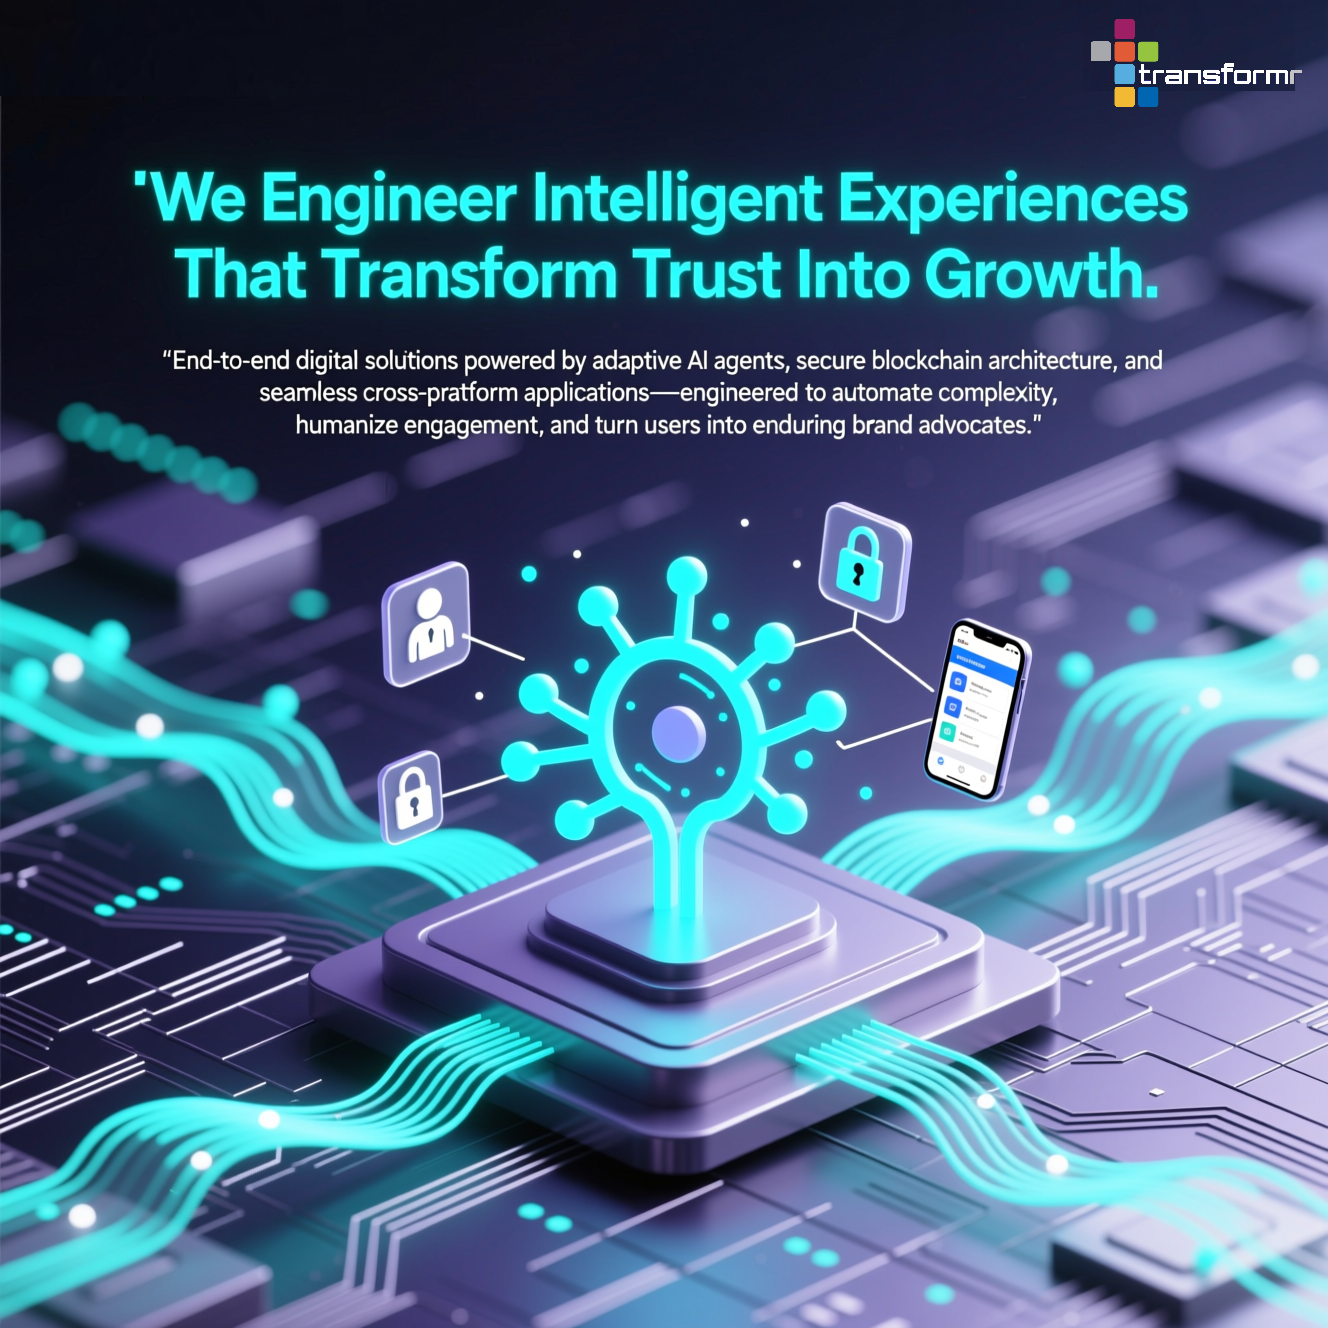
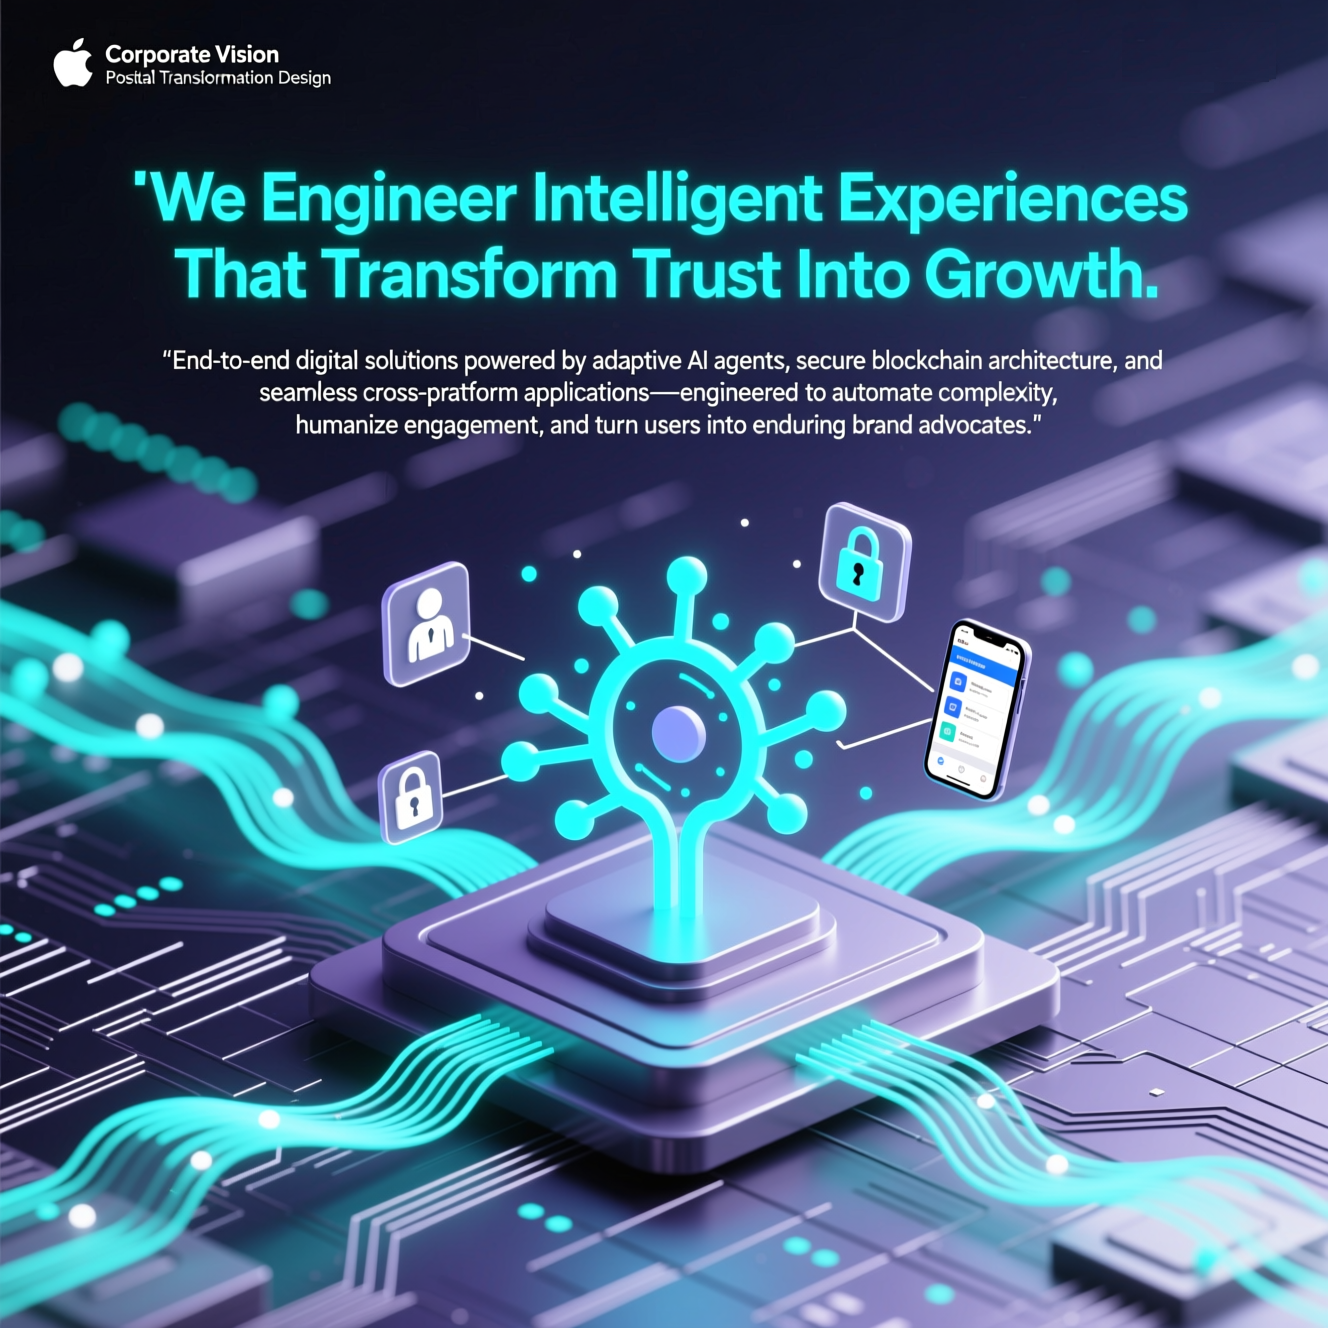
delete transformr area

Changed region(s): [[0.8027, 0.0, 0.988, 0.0926], [0.0309, 0.0309, 0.247, 0.0617]]

diff --git a/src/components/Contact.jsx b/src/components/Contact.jsx
@@ -1,23 +1,7 @@
 import { motion } from "motion/react";
-import assets from "../assets/assets";
 import Title from "./Title";
 
 const Contact = () => {
-    const contacts = [
-        {
-            name: 'Glenn Evans',
-            email: 'glenn.evans@transformr.com.au'
-        },
-        {
-            name: 'Michael Verso',
-            email: 'michael.verso@transformr.com.au'
-        },
-        {
-            name: 'Thai Bui Cong',
-            email: 'thai.buicong@transformr.com.au'
-        }
-    ];
-
     return (
         <motion.div
             initial="hidden"
@@ -25,37 +9,6 @@ const Contact = () => {
             transition={{ staggerChildren: 0.2 }}
             viewport={{ once: false, margin: "-100px" }}
             id="contact-us" className="flex flex-col items-center gap-7 px-4 sm:px-12 lg:px-24 xl:px-40 pt-30 text-gray-700 dark:text-white">
-            <Title title='Reach Out to Us' desc="Let's build something extraordinary together! From strategy to execution, we craft digital experiences that grow your business." />
-
-            <motion.div
-                initial={{ opacity: 0, y: 30 }}
-                whileInView={{ opacity: 1, y: 0 }}
-                transition={{ duration: 0.5, delay: 0.4 }}
-                viewport={{ once: false, margin: "-50px" }}
-                className="grid sm:grid-cols-2 lg:grid-cols-3 gap-6 max-w-6xl w-full">
-                {contacts.map((contact, index) => (
-                    <motion.div
-                        key={index}
-                        initial={{ opacity: 0, y: 20 }}
-                        whileInView={{ opacity: 1, y: 0 }}
-                        transition={{ duration: 0.5, delay: 0.2 * index }}
-                        viewport={{ once: false, margin: "-50px" }}
-                        className="flex flex-col items-center p-8 rounded-lg border border-gray-300 dark:border-gray-600 hover:border-primary transition-all hover:shadow-lg min-w-[280px]"
-                    >
-                        <div className="mb-4">
-                            <img src={assets.person_icon} alt="Person Icon" className="w-12 h-12 opacity-70" />
-                        </div>
-                        <h3 className="text-lg font-semibold mb-2 text-center">{contact.name}</h3>
-                        <a 
-                            href={`mailto:${contact.email}`}
-                            className="text-primary hover:underline text-sm flex items-center gap-2"
-                        >
-                            <img src={assets.email_icon} alt="Email Icon" className="w-4 h-4" />
-                            {contact.email}
-                        </a>
-                    </motion.div>
-                ))}
-            </motion.div>
         </motion.div>
     )
 }

diff --git a/src/assets/assets.js b/src/assets/assets.js
@@ -1,4 +1,3 @@
-import logo from './logo.png'
 import arrow_icon from './arrow_icon.svg'
 import group_profile from './group_profile.png'
 import bgImage1 from './bgImage1.png'
@@ -23,7 +22,6 @@ import facebook_icon from './facebook_icon.svg'
 import twitter_icon from './twitter_icon.svg'
 import instagram_icon from './instagram_icon.svg'
 import linkedin_icon from './linkedin_icon.svg'
-import logo_dark from './logo_dark.png'
 import airbnb_logo from './airbnb_logo.svg'
 import google_logo from './google_logo.svg'
 import menu_icon_dark from './menu_icon_dark.svg'
@@ -64,7 +62,6 @@ export const company_logos = [
 ]
 
 const assets = {
-  logo,
   arrow_icon,
   group_profile,
   bgImage1,
@@ -85,7 +82,6 @@ const assets = {
   twitter_icon,
   instagram_icon,
   linkedin_icon,
-  logo_dark,
   menu_icon_dark,
   sun_icon,
   moon_icon,

diff --git a/src/components/Navbar.jsx b/src/components/Navbar.jsx
@@ -55,10 +55,6 @@ const Navbar = ({theme, setTheme}) => {
       transition={{duration: 0.6, ease: 'easeOut'}}
       className="flex justify-between items-center px-4 sm:px-12 lg:px-24 py-4 sticky top-0 z-50 backdrop-blur-xl font-medium bg-white/50 dark:bg-gray-900/70 border-b border-gray-200/50 dark:border-gray-800/50"
     >
-      <Link to="/" onClick={() => setSidebarOpen(false)}>
-        <img src={theme === 'dark' ? assets.logo_dark : assets.logo} className='w-32 sm:w-40' alt="Logo" />
-      </Link>
-
       {/* Desktop Navigation */}
       <nav className="hidden sm:flex items-center gap-6 text-gray-700 dark:text-white text-sm">
         <Link 

diff --git a/src/components/Footer.jsx b/src/components/Footer.jsx
@@ -18,7 +18,6 @@ const Footer = ({ theme }) => {
                     transition={{ duration: 0.6, delay: 0.2 }}
                     viewport={{ once: true }}
                     className="space-y-5 text-sm text-gray-700 dark:text-gray-400">
-                    <img src={theme === 'dark' ? assets.logo_dark : assets.logo} alt="logo" className="w-32 sm:w-44" />
                     <p className="max-w-md">From strategy to execution, we craft digital solutions that move your business forward.</p>
                     <ul className="flex gap-8">
                         <li><a href="#hero" className="hover:text-primary">Home</a></li>
